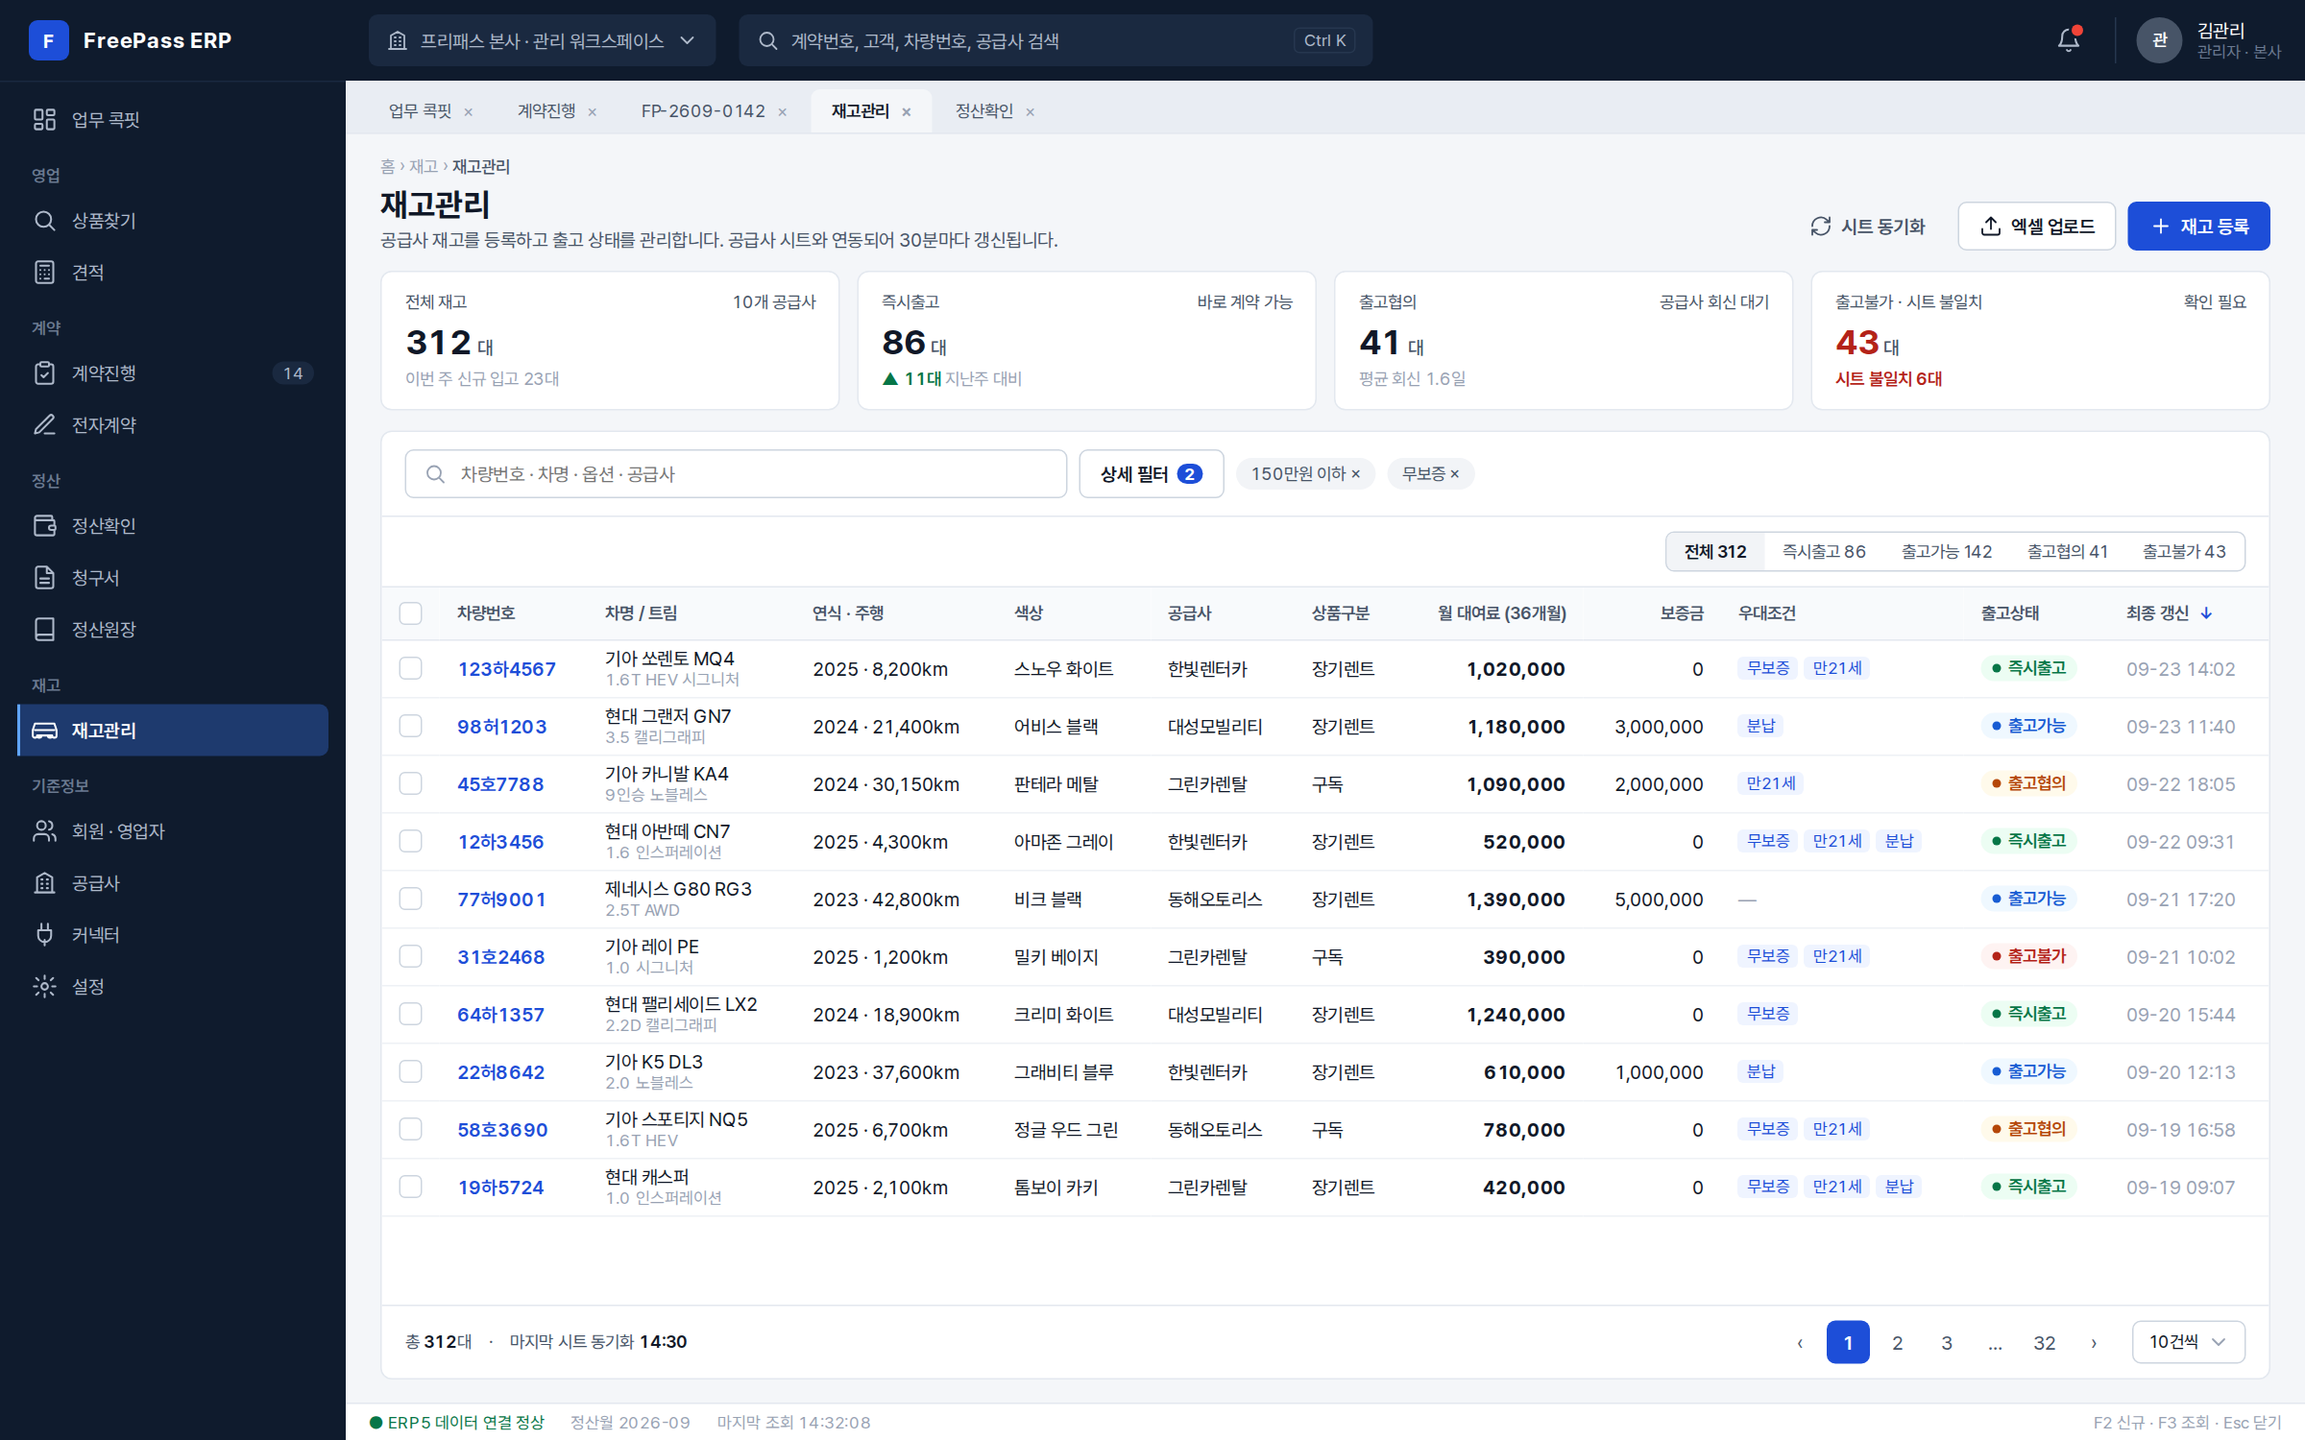
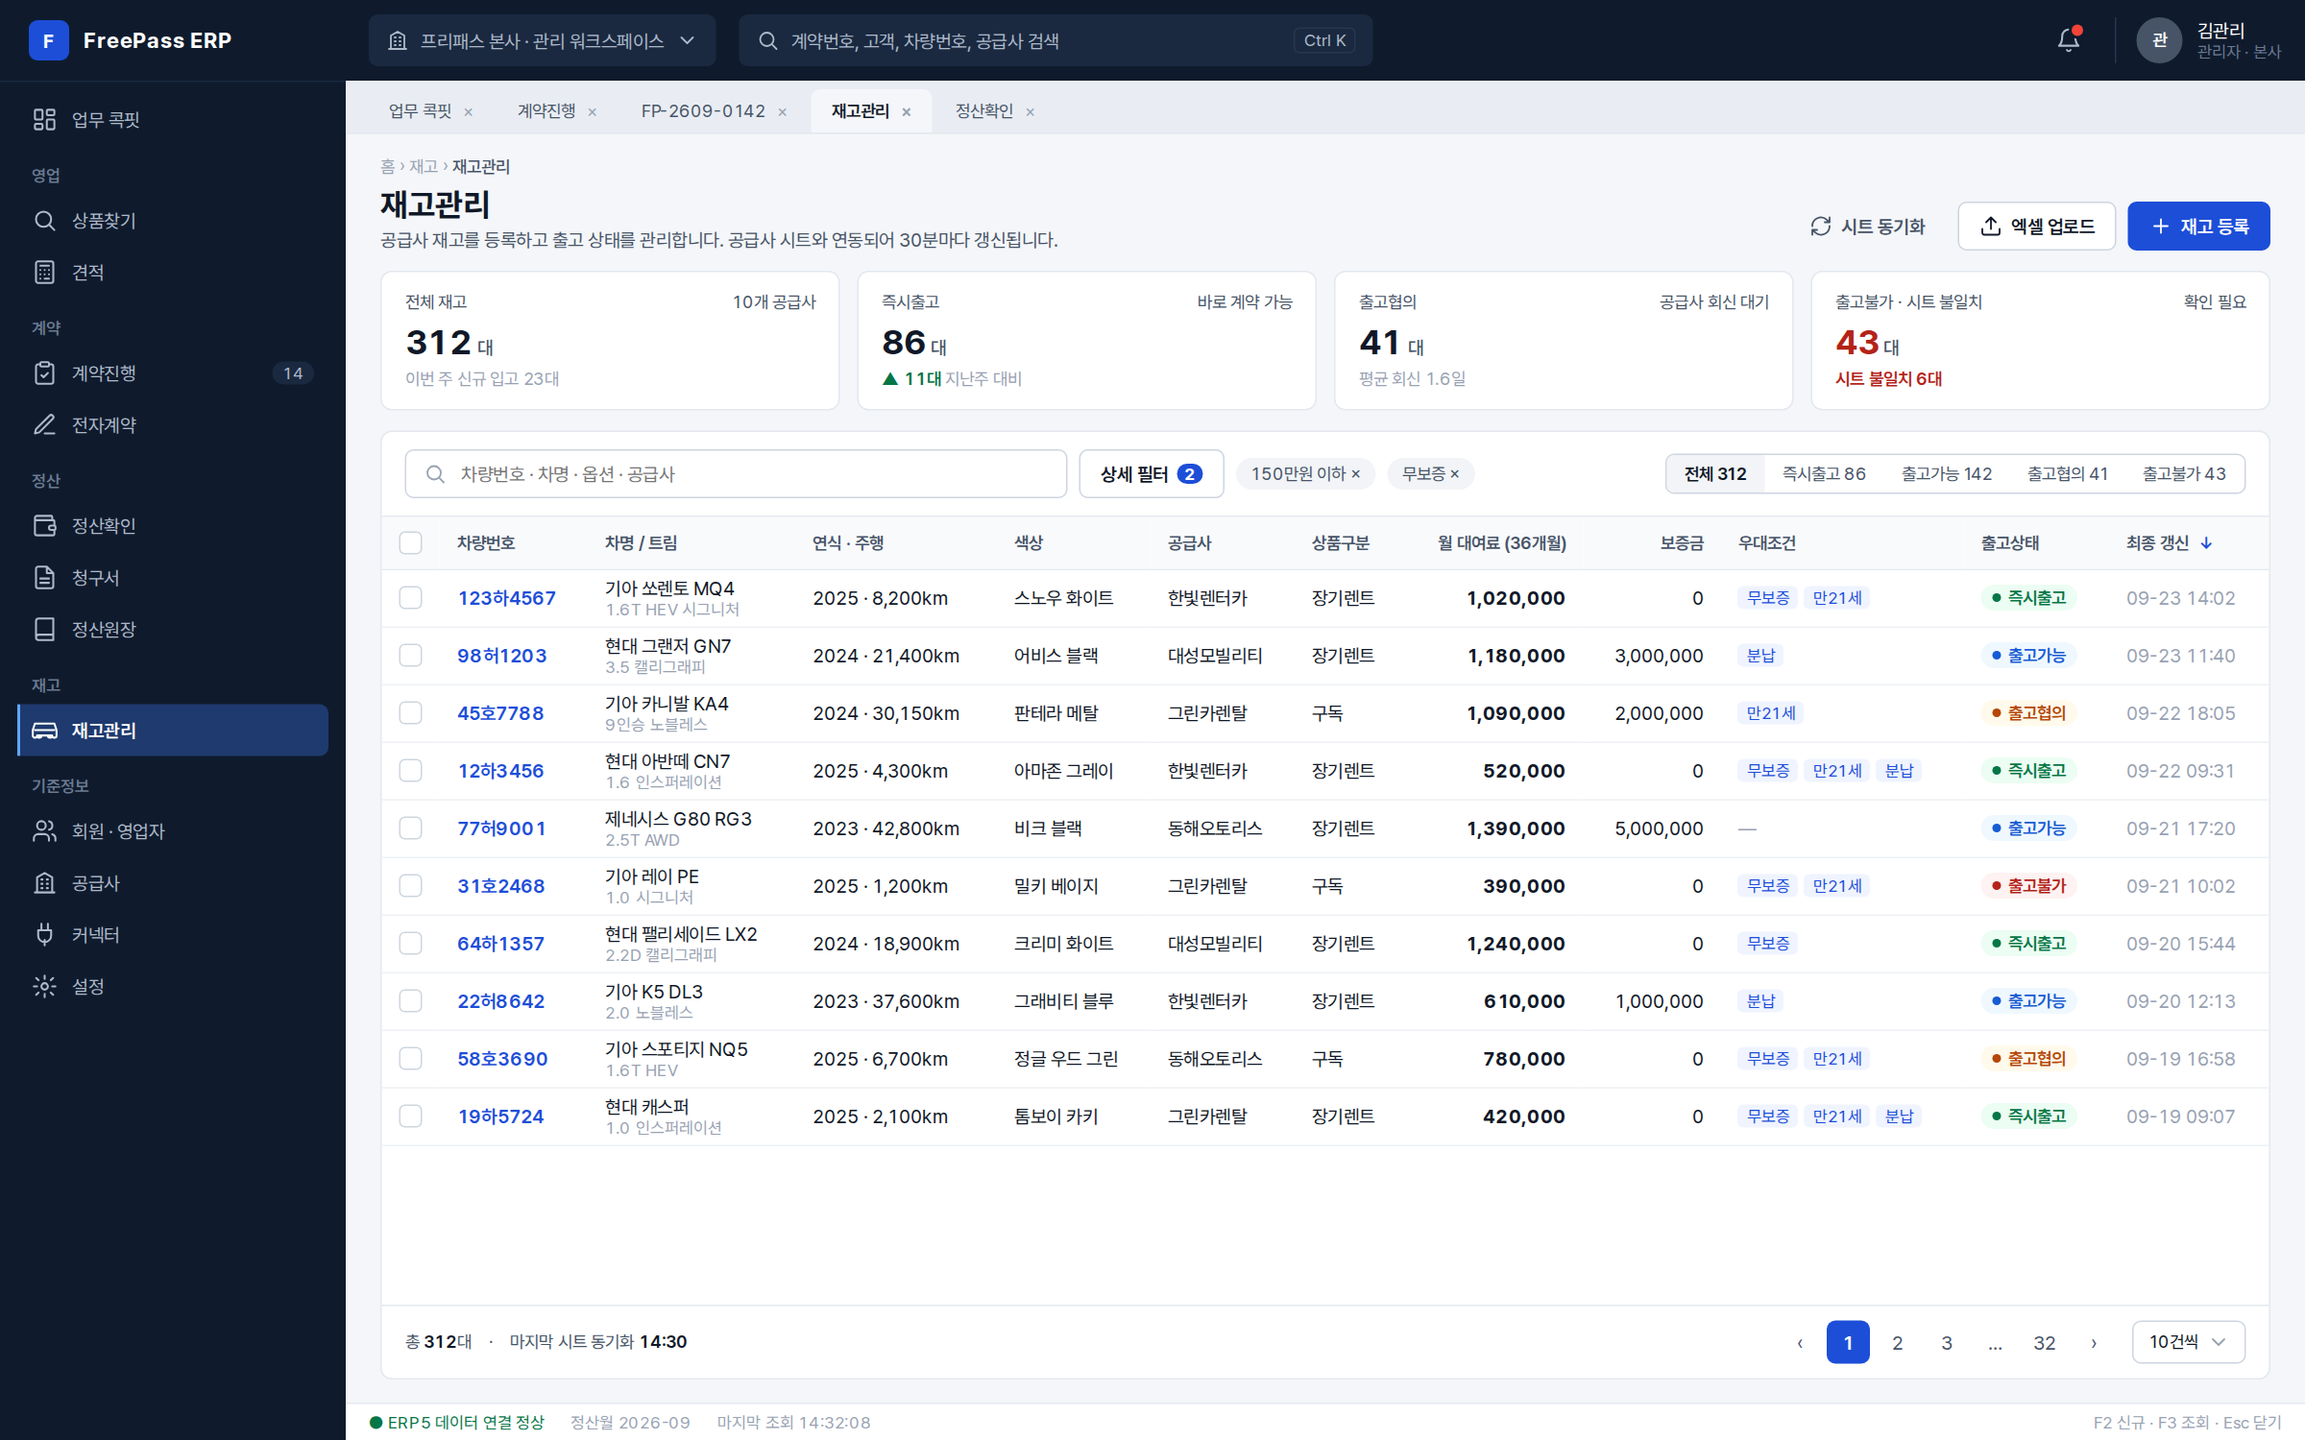
[Claude] ERP 표준 — 상태 탭은 검색 줄 오른쪽, 툴바 줄은 일괄 작업이 있을 때만
Claude-Session: https://claude.ai/code/session_01VHqvSXhUy82o1cFFrYMP3F

diff --git a/design/erp-standard/platform/inventory.html b/design/erp-standard/platform/inventory.html
@@ -71,11 +71,7 @@
       <div class="erp-kpi"><div class="erp-kpi-label">출고불가 · 시트 불일치 <span>확인 필요</span></div><div class="erp-kpi-value erp-kpi-value--alert">43<small>대</small></div><div class="erp-kpi-delta"><span class="erp-down">시트 불일치 6대</span></div></div>
     </section>
     <section class="erp-card erp-card--fill">
-      <form class="erp-searchbar" data-region="filter" role="search"><label class="erp-search"><svg viewBox="0 0 24 24"><circle cx="11" cy="11" r="7"/><path d="m21 21-4.3-4.3"/></svg><input name="q" placeholder="차량번호 · 차명 · 옵션 · 공급사"></label><details class="erp-filter-more"><summary class="erp-btn">상세 필터 <b>2</b></summary><div class="erp-filter-panel"><div class="erp-facet"><p class="erp-facet-title">출고상태</p><div class="erp-facet-opts"><a class="erp-facet-opt" href="#">즉시출고 <small>86</small></a><a class="erp-facet-opt" href="#">출고가능 <small>142</small></a><a class="erp-facet-opt" href="#">출고협의 <small>41</small></a></div></div><div class="erp-facet"><p class="erp-facet-title">상품구분</p><div class="erp-facet-opts"><a class="erp-facet-opt" href="#">장기렌트 <small>214</small></a><a class="erp-facet-opt" href="#">구독 <small>98</small></a></div></div><div class="erp-facet"><p class="erp-facet-title">제조사</p><div class="erp-facet-opts"><a class="erp-facet-opt" href="#">기아 <small>131</small></a><a class="erp-facet-opt" href="#">현대 <small>122</small></a><a class="erp-facet-opt" href="#">제네시스 <small>34</small></a></div></div><div class="erp-facet"><p class="erp-facet-title">월 대여료 (36개월)</p><div class="erp-facet-opts"><a class="erp-facet-opt" href="#">50만원 이하 <small>61</small></a><a class="erp-facet-opt" href="#">100만원 이하 <small>187</small></a><a class="erp-facet-opt" href="#" aria-pressed="true">150만원 이하 <small>288</small></a></div></div><div class="erp-facet"><p class="erp-facet-title">우대조건</p><div class="erp-facet-opts"><a class="erp-facet-opt" href="#" aria-pressed="true">무보증 <small>176</small></a><a class="erp-facet-opt" href="#">만21세 <small>92</small></a><a class="erp-facet-opt" href="#">보증금 분납 <small>48</small></a></div></div><div class="erp-filter-panel-foot"><a class="erp-btn erp-btn--ghost" href="#">초기화</a><button class="erp-btn erp-btn--primary" type="submit">적용</button></div></div></details><span class="erp-chip">150만원 이하 ×</span><span class="erp-chip">무보증 ×</span></form>
-      <div class="erp-toolbar" data-region="grid-toolbar">
-        <span class="erp-toolbar-spacer"></span>
-        <div class="erp-seg" role="group" aria-label="출고상태"><button type="button" aria-pressed="true">전체 312</button><button type="button" aria-pressed="false">즉시출고 86</button><button type="button" aria-pressed="false">출고가능 142</button><button type="button" aria-pressed="false">출고협의 41</button><button type="button" aria-pressed="false">출고불가 43</button></div>
-      </div>
+      <form class="erp-searchbar" data-region="filter" role="search"><label class="erp-search"><svg viewBox="0 0 24 24"><circle cx="11" cy="11" r="7"/><path d="m21 21-4.3-4.3"/></svg><input name="q" placeholder="차량번호 · 차명 · 옵션 · 공급사"></label><details class="erp-filter-more"><summary class="erp-btn">상세 필터 <b>2</b></summary><div class="erp-filter-panel"><div class="erp-facet"><p class="erp-facet-title">출고상태</p><div class="erp-facet-opts"><a class="erp-facet-opt" href="#">즉시출고 <small>86</small></a><a class="erp-facet-opt" href="#">출고가능 <small>142</small></a><a class="erp-facet-opt" href="#">출고협의 <small>41</small></a></div></div><div class="erp-facet"><p class="erp-facet-title">상품구분</p><div class="erp-facet-opts"><a class="erp-facet-opt" href="#">장기렌트 <small>214</small></a><a class="erp-facet-opt" href="#">구독 <small>98</small></a></div></div><div class="erp-facet"><p class="erp-facet-title">제조사</p><div class="erp-facet-opts"><a class="erp-facet-opt" href="#">기아 <small>131</small></a><a class="erp-facet-opt" href="#">현대 <small>122</small></a><a class="erp-facet-opt" href="#">제네시스 <small>34</small></a></div></div><div class="erp-facet"><p class="erp-facet-title">월 대여료 (36개월)</p><div class="erp-facet-opts"><a class="erp-facet-opt" href="#">50만원 이하 <small>61</small></a><a class="erp-facet-opt" href="#">100만원 이하 <small>187</small></a><a class="erp-facet-opt" href="#" aria-pressed="true">150만원 이하 <small>288</small></a></div></div><div class="erp-facet"><p class="erp-facet-title">우대조건</p><div class="erp-facet-opts"><a class="erp-facet-opt" href="#" aria-pressed="true">무보증 <small>176</small></a><a class="erp-facet-opt" href="#">만21세 <small>92</small></a><a class="erp-facet-opt" href="#">보증금 분납 <small>48</small></a></div></div><div class="erp-filter-panel-foot"><a class="erp-btn erp-btn--ghost" href="#">초기화</a><button class="erp-btn erp-btn--primary" type="submit">적용</button></div></div></details><span class="erp-chip">150만원 이하 ×</span><span class="erp-chip">무보증 ×</span><span class="erp-toolbar-spacer"></span><div data-region="grid-toolbar"><div class="erp-seg" role="group" aria-label="출고상태"><button type="button" aria-pressed="true">전체 312</button><button type="button" aria-pressed="false">즉시출고 86</button><button type="button" aria-pressed="false">출고가능 142</button><button type="button" aria-pressed="false">출고협의 41</button><button type="button" aria-pressed="false">출고불가 43</button></div></div></form>
       <div class="erp-grid-scroll" data-region="grid">
         <table class="erp-grid">
           <thead><tr><th class="erp-col-check"><input class="erp-check" type="checkbox" aria-label="전체 선택"></th><th>차량번호</th><th>차명 / 트림</th><th>연식 · 주행</th><th>색상</th><th>공급사</th><th>상품구분</th><th class="erp-num">월 대여료 (36개월)</th><th class="erp-num">보증금</th><th>우대조건</th><th>출고상태</th><th aria-sort="descending">최종 갱신 <span class="erp-sort">↓</span></th></tr></thead>

diff --git a/design/erp-standard/platform/retro/inventory.html b/design/erp-standard/platform/retro/inventory.html
@@ -75,11 +75,7 @@
       <div class="erp-kpi"><div class="erp-kpi-label">출고불가 · 시트 불일치 <span>확인 필요</span></div><div class="erp-kpi-value erp-kpi-value--alert">43<small>대</small></div><div class="erp-kpi-delta"><span class="erp-down">시트 불일치 6대</span></div></div>
     </section>
     <section class="erp-card erp-card--fill">
-      <form class="erp-searchbar" data-region="filter" role="search"><label class="erp-search"><svg viewBox="0 0 24 24"><circle cx="11" cy="11" r="7"/><path d="m21 21-4.3-4.3"/></svg><input name="q" placeholder="차량번호 · 차명 · 옵션 · 공급사"></label><details class="erp-filter-more"><summary class="erp-btn">상세 필터 <b>2</b></summary><div class="erp-filter-panel"><div class="erp-facet"><p class="erp-facet-title">출고상태</p><div class="erp-facet-opts"><a class="erp-facet-opt" href="#">즉시출고 <small>86</small></a><a class="erp-facet-opt" href="#">출고가능 <small>142</small></a><a class="erp-facet-opt" href="#">출고협의 <small>41</small></a></div></div><div class="erp-facet"><p class="erp-facet-title">상품구분</p><div class="erp-facet-opts"><a class="erp-facet-opt" href="#">장기렌트 <small>214</small></a><a class="erp-facet-opt" href="#">구독 <small>98</small></a></div></div><div class="erp-facet"><p class="erp-facet-title">제조사</p><div class="erp-facet-opts"><a class="erp-facet-opt" href="#">기아 <small>131</small></a><a class="erp-facet-opt" href="#">현대 <small>122</small></a><a class="erp-facet-opt" href="#">제네시스 <small>34</small></a></div></div><div class="erp-facet"><p class="erp-facet-title">월 대여료 (36개월)</p><div class="erp-facet-opts"><a class="erp-facet-opt" href="#">50만원 이하 <small>61</small></a><a class="erp-facet-opt" href="#">100만원 이하 <small>187</small></a><a class="erp-facet-opt" href="#" aria-pressed="true">150만원 이하 <small>288</small></a></div></div><div class="erp-facet"><p class="erp-facet-title">우대조건</p><div class="erp-facet-opts"><a class="erp-facet-opt" href="#" aria-pressed="true">무보증 <small>176</small></a><a class="erp-facet-opt" href="#">만21세 <small>92</small></a><a class="erp-facet-opt" href="#">보증금 분납 <small>48</small></a></div></div><div class="erp-filter-panel-foot"><a class="erp-btn erp-btn--ghost" href="#">초기화</a><button class="erp-btn erp-btn--primary" type="submit">적용</button></div></div></details><span class="erp-chip">150만원 이하 ×</span><span class="erp-chip">무보증 ×</span></form>
-      <div class="erp-toolbar" data-region="grid-toolbar">
-        <span class="erp-toolbar-spacer"></span>
-        <div class="erp-seg" role="group" aria-label="출고상태"><button type="button" aria-pressed="true">전체 312</button><button type="button" aria-pressed="false">즉시출고 86</button><button type="button" aria-pressed="false">출고가능 142</button><button type="button" aria-pressed="false">출고협의 41</button><button type="button" aria-pressed="false">출고불가 43</button></div>
-      </div>
+      <form class="erp-searchbar" data-region="filter" role="search"><label class="erp-search"><svg viewBox="0 0 24 24"><circle cx="11" cy="11" r="7"/><path d="m21 21-4.3-4.3"/></svg><input name="q" placeholder="차량번호 · 차명 · 옵션 · 공급사"></label><details class="erp-filter-more"><summary class="erp-btn">상세 필터 <b>2</b></summary><div class="erp-filter-panel"><div class="erp-facet"><p class="erp-facet-title">출고상태</p><div class="erp-facet-opts"><a class="erp-facet-opt" href="#">즉시출고 <small>86</small></a><a class="erp-facet-opt" href="#">출고가능 <small>142</small></a><a class="erp-facet-opt" href="#">출고협의 <small>41</small></a></div></div><div class="erp-facet"><p class="erp-facet-title">상품구분</p><div class="erp-facet-opts"><a class="erp-facet-opt" href="#">장기렌트 <small>214</small></a><a class="erp-facet-opt" href="#">구독 <small>98</small></a></div></div><div class="erp-facet"><p class="erp-facet-title">제조사</p><div class="erp-facet-opts"><a class="erp-facet-opt" href="#">기아 <small>131</small></a><a class="erp-facet-opt" href="#">현대 <small>122</small></a><a class="erp-facet-opt" href="#">제네시스 <small>34</small></a></div></div><div class="erp-facet"><p class="erp-facet-title">월 대여료 (36개월)</p><div class="erp-facet-opts"><a class="erp-facet-opt" href="#">50만원 이하 <small>61</small></a><a class="erp-facet-opt" href="#">100만원 이하 <small>187</small></a><a class="erp-facet-opt" href="#" aria-pressed="true">150만원 이하 <small>288</small></a></div></div><div class="erp-facet"><p class="erp-facet-title">우대조건</p><div class="erp-facet-opts"><a class="erp-facet-opt" href="#" aria-pressed="true">무보증 <small>176</small></a><a class="erp-facet-opt" href="#">만21세 <small>92</small></a><a class="erp-facet-opt" href="#">보증금 분납 <small>48</small></a></div></div><div class="erp-filter-panel-foot"><a class="erp-btn erp-btn--ghost" href="#">초기화</a><button class="erp-btn erp-btn--primary" type="submit">적용</button></div></div></details><span class="erp-chip">150만원 이하 ×</span><span class="erp-chip">무보증 ×</span><span class="erp-toolbar-spacer"></span><div data-region="grid-toolbar"><div class="erp-seg" role="group" aria-label="출고상태"><button type="button" aria-pressed="true">전체 312</button><button type="button" aria-pressed="false">즉시출고 86</button><button type="button" aria-pressed="false">출고가능 142</button><button type="button" aria-pressed="false">출고협의 41</button><button type="button" aria-pressed="false">출고불가 43</button></div></div></form>
       <div class="erp-grid-scroll" data-region="grid">
         <table class="erp-grid">
           <thead><tr><th class="erp-col-check"><input class="erp-check" type="checkbox" aria-label="전체 선택"></th><th>차량번호</th><th>차명 / 트림</th><th>연식 · 주행</th><th>색상</th><th>공급사</th><th>상품구분</th><th class="erp-num">월 대여료 (36개월)</th><th class="erp-num">보증금</th><th>우대조건</th><th>출고상태</th><th aria-sort="descending">최종 갱신 <span class="erp-sort">↓</span></th></tr></thead>

diff --git a/design/erp-standard/README.md b/design/erp-standard/README.md
@@ -92,7 +92,7 @@
 > 「우리가 지금 최대한 검색창이랑 상세 필터를 쓰려고 하잖아. 드랍다운 쓰는 거는 계약, 정산, 실적 이런 데서만 … 최소화할 건 최소화하고 … 더 미니멀하고 심플하게」
 
 - 목록 조회 = `erp-searchbar`: **검색창**(`erp-search`) + **상세 필터**(`<details class="erp-filter-more">` → `erp-filter-panel` 안에 `erp-facet` · `erp-facet-opt` 건수 칩) + 적용된 조건 칩(×).
-- 상태 분류는 세그먼트 탭(`erp-seg`). 드롭다운(`select.erp-input`)은 분류가 꼭 필요한 화면(계약 · 정산 · 실적)에서만, 한 화면에 1~2개.
+- 상태 분류는 세그먼트 탭(`erp-seg`)으로, **검색 줄 오른쪽**에 둔다. 툴바 줄(`erp-toolbar`)은 선택한 줄에 대한 일괄 작업이 있을 때만 따로 둔다. 드롭다운(`select.erp-input`)은 분류가 꼭 필요한 화면(계약 · 정산 · 실적)에서만, 한 화면에 1~2개.
 - 라벨 위 입력칸을 가로로 늘어놓는 `erp-filter` 바는 등록/수정 폼이나 조건이 많은 특수 조회에만 쓴다.
 - 설명 문장 · 장식용 칩 · 쓰지 않는 단추(컬럼 설정 등)를 두지 않는다. 한 화면에 Primary 는 하나.
 
